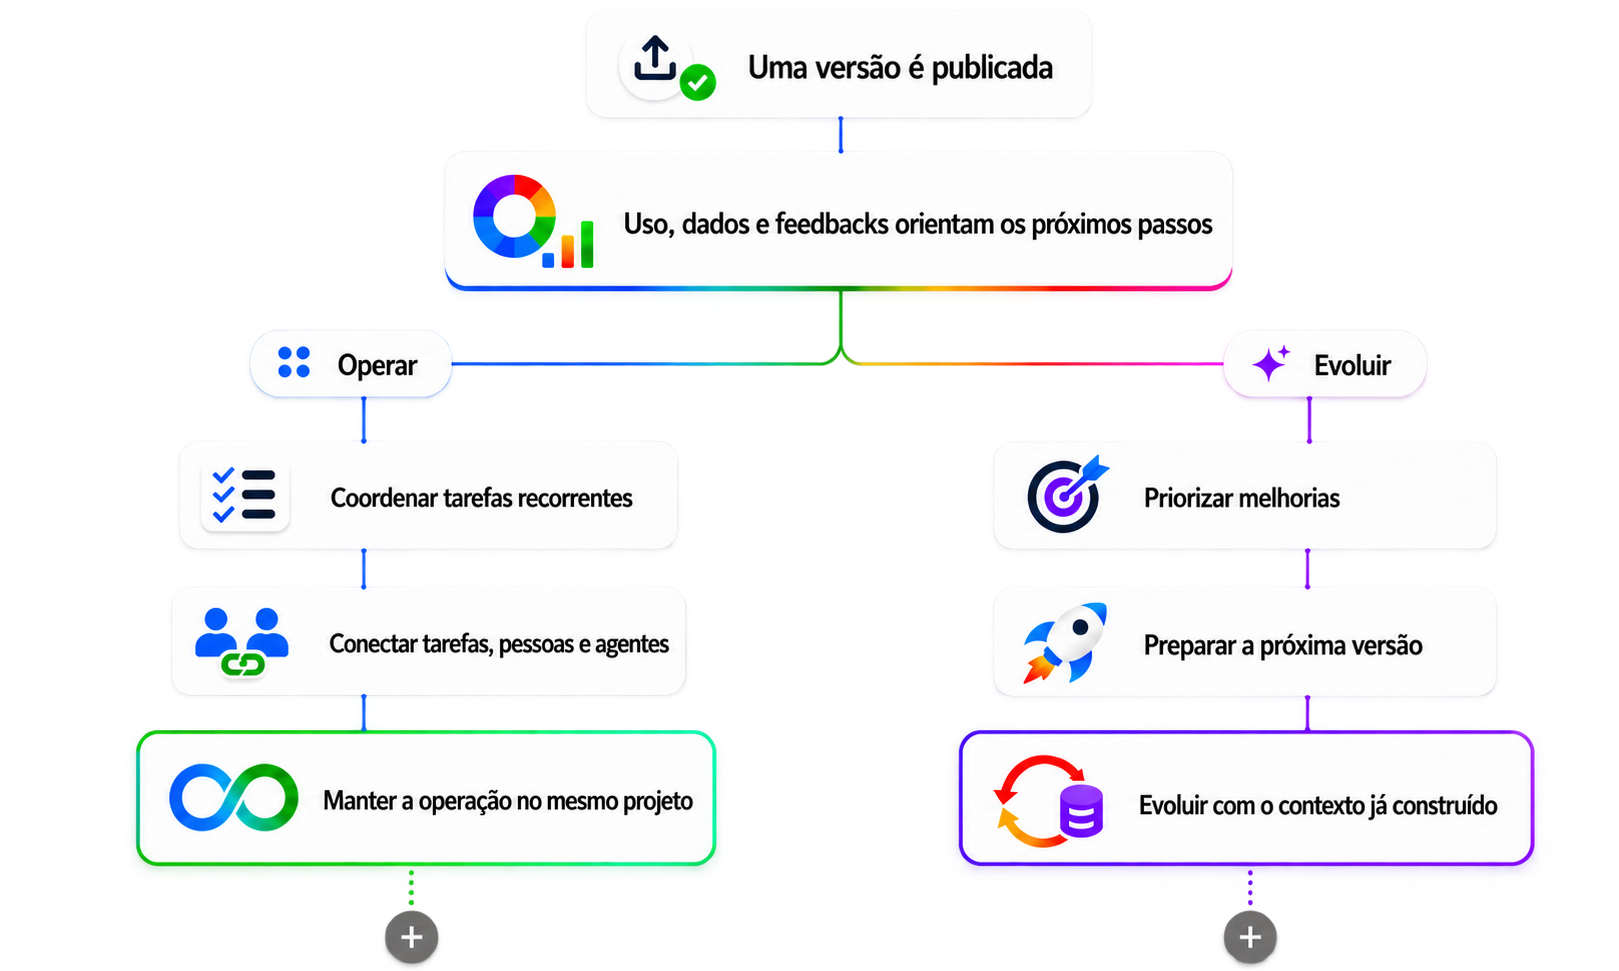
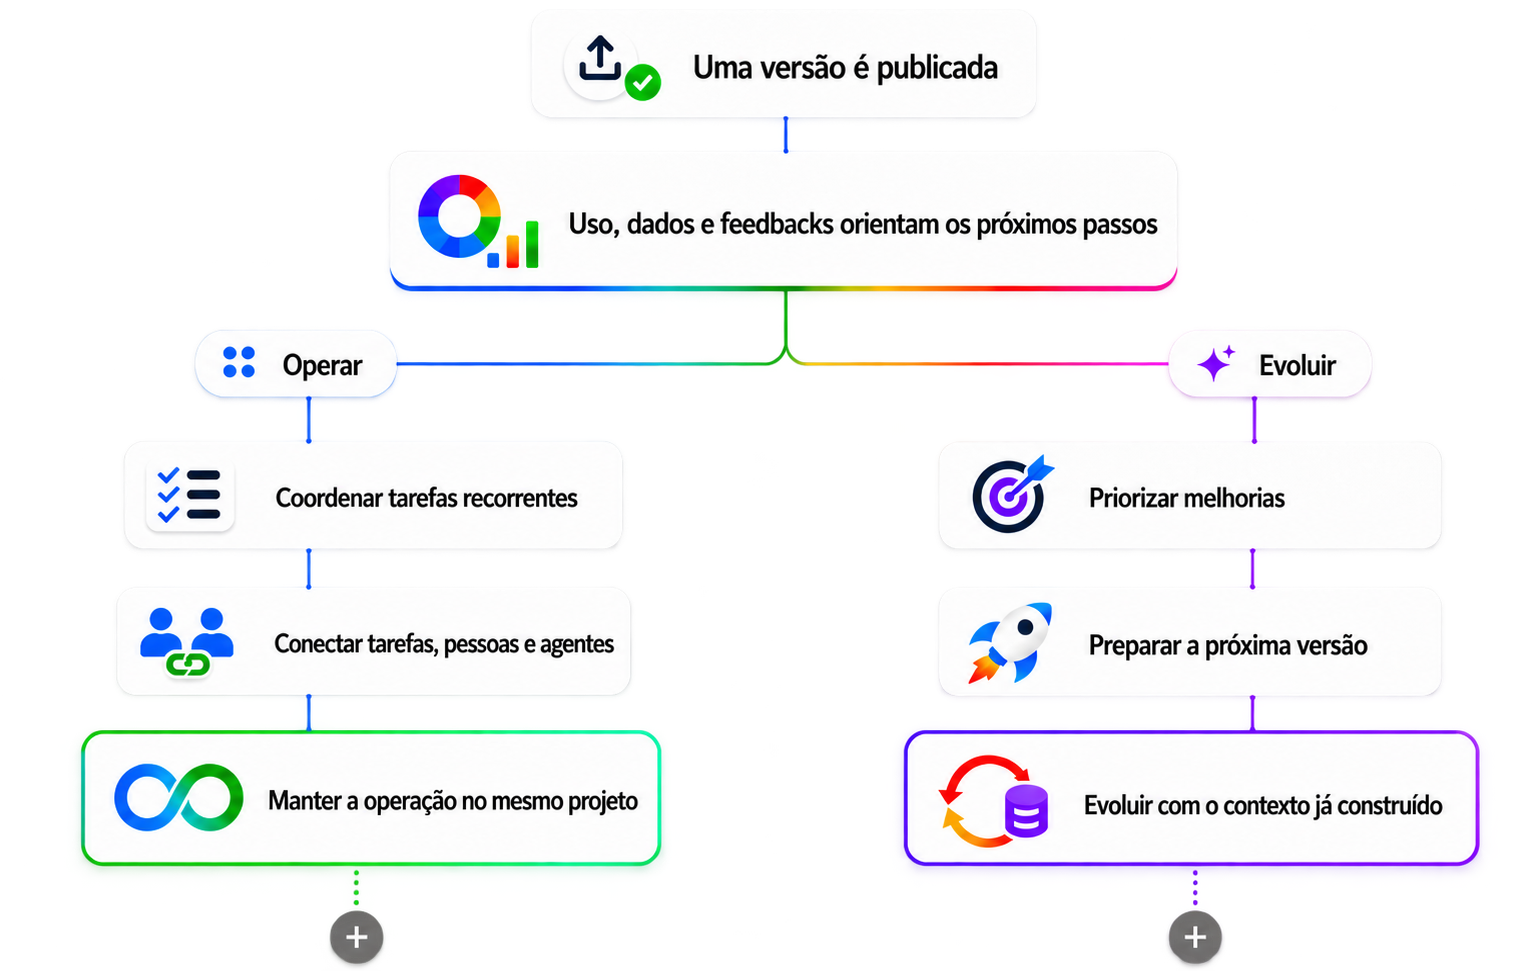
fix(workflow): center mobile image by trimming whitespace and shifting left

diff --git a/src/components/workflow/WorkflowHeroSection.tsx b/src/components/workflow/WorkflowHeroSection.tsx
@@ -119,7 +119,7 @@ export function WorkflowHeroSection() {
               <img
                 src="/images/automation-flow-mobile.png"
                 alt="Fluxo de automação entre pessoas e agentes"
-                className="w-full h-auto block mx-auto sm:hidden"
+                className="w-full h-auto block mx-auto -translate-x-2.5 sm:translate-x-0 sm:hidden"
                 decoding="async"
                 loading="lazy"
               />
